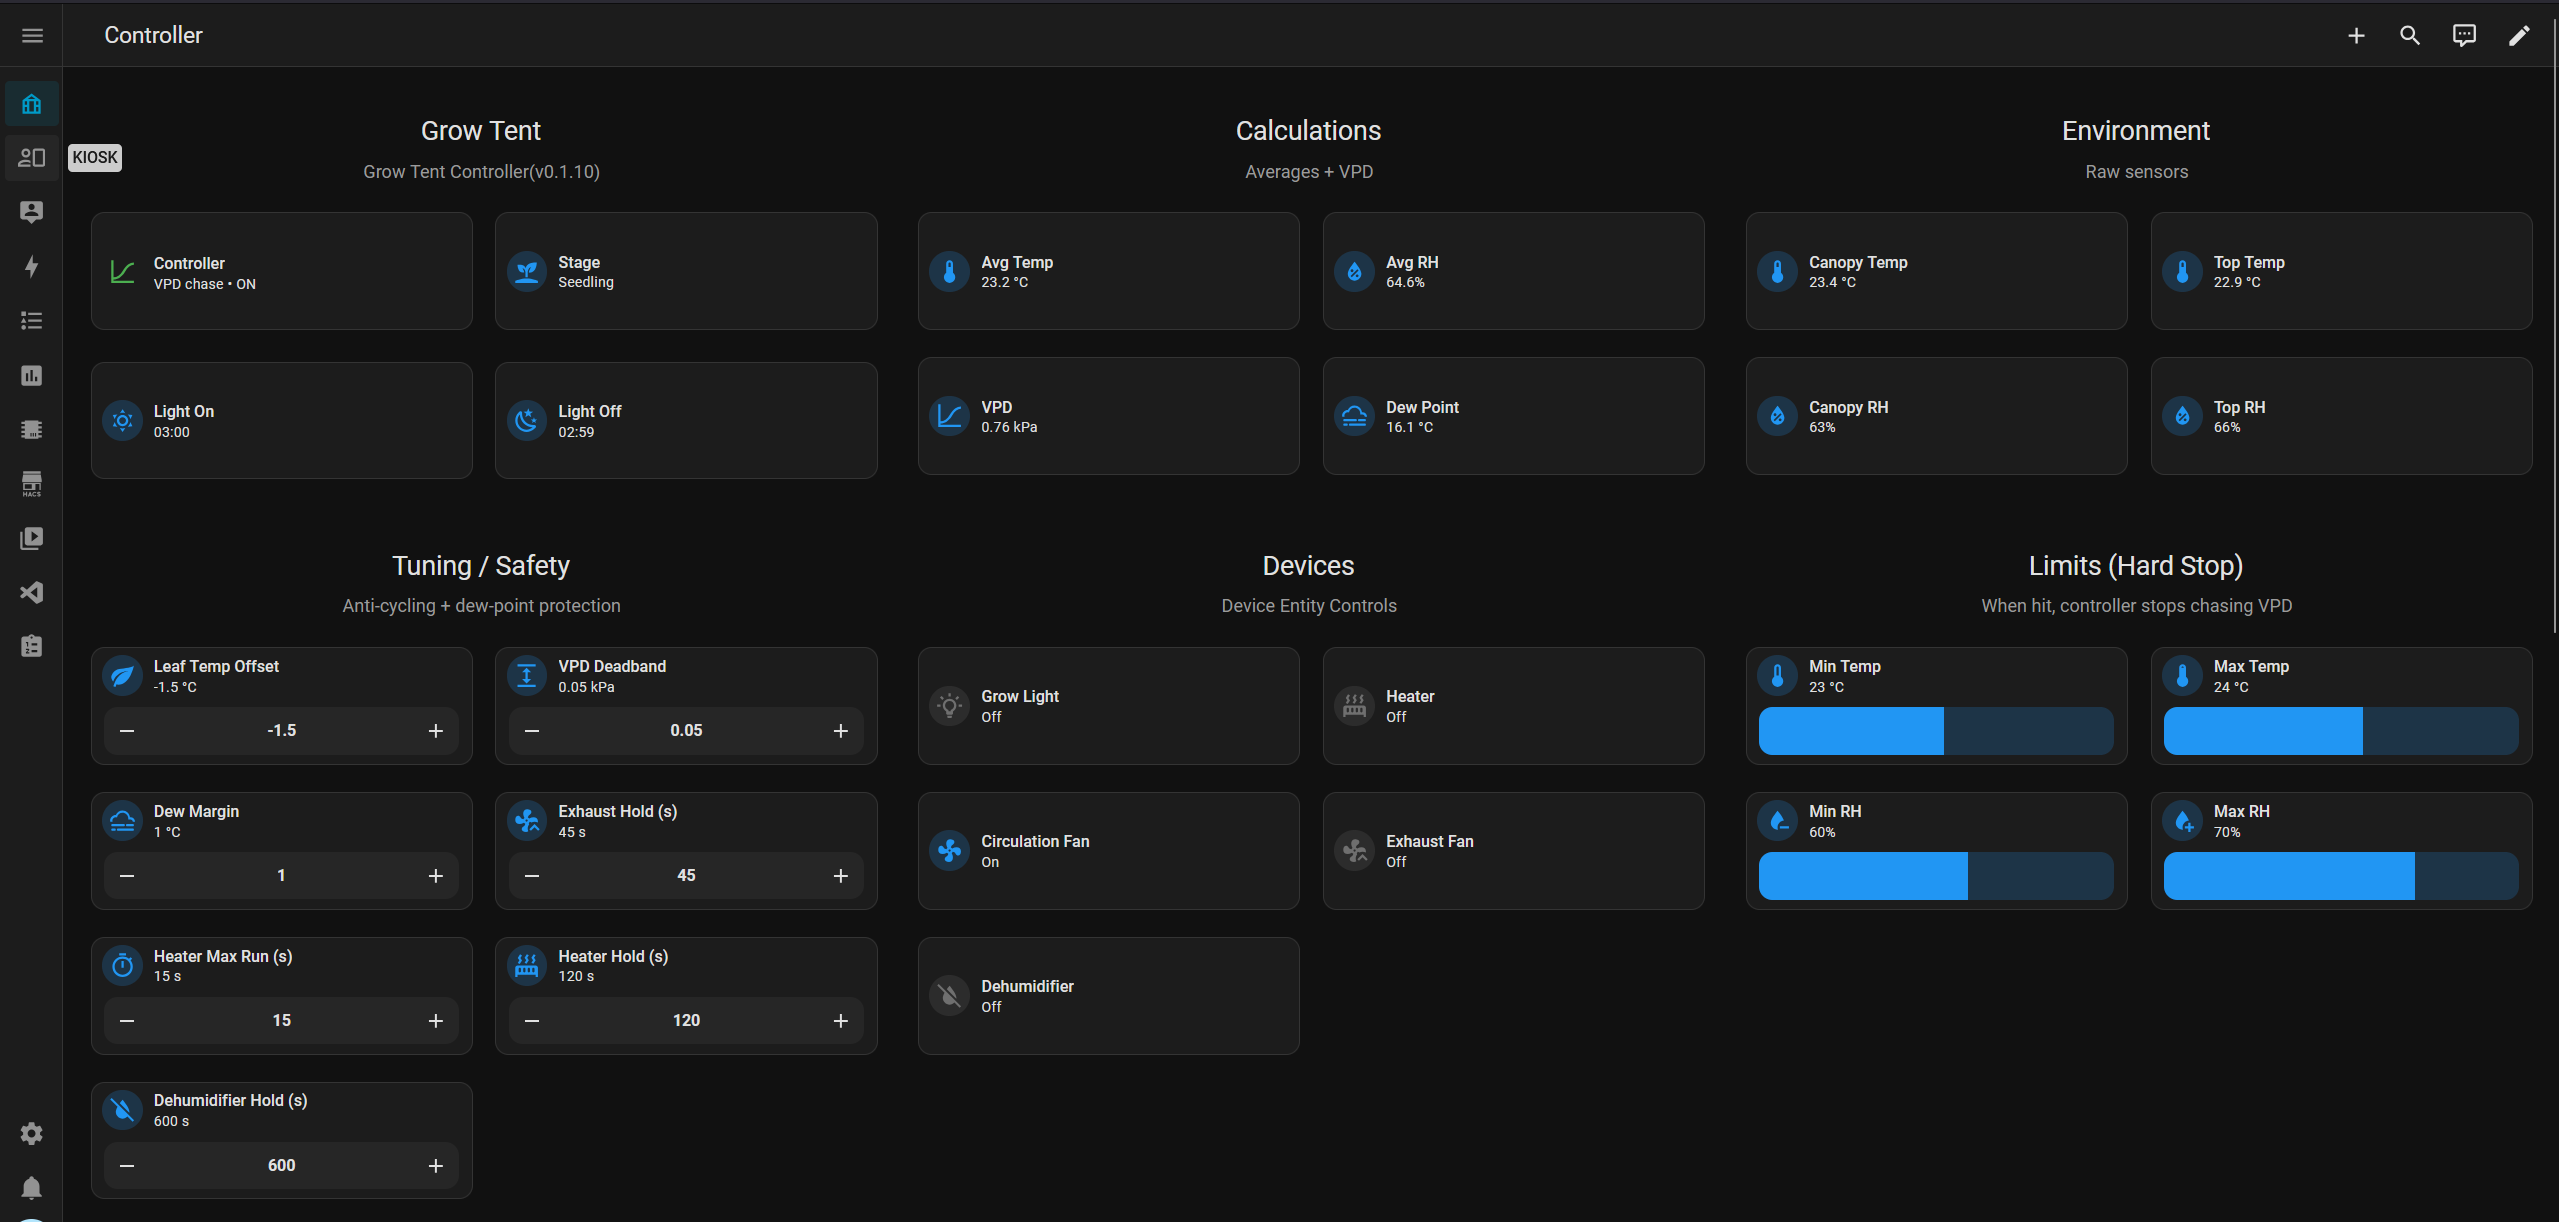
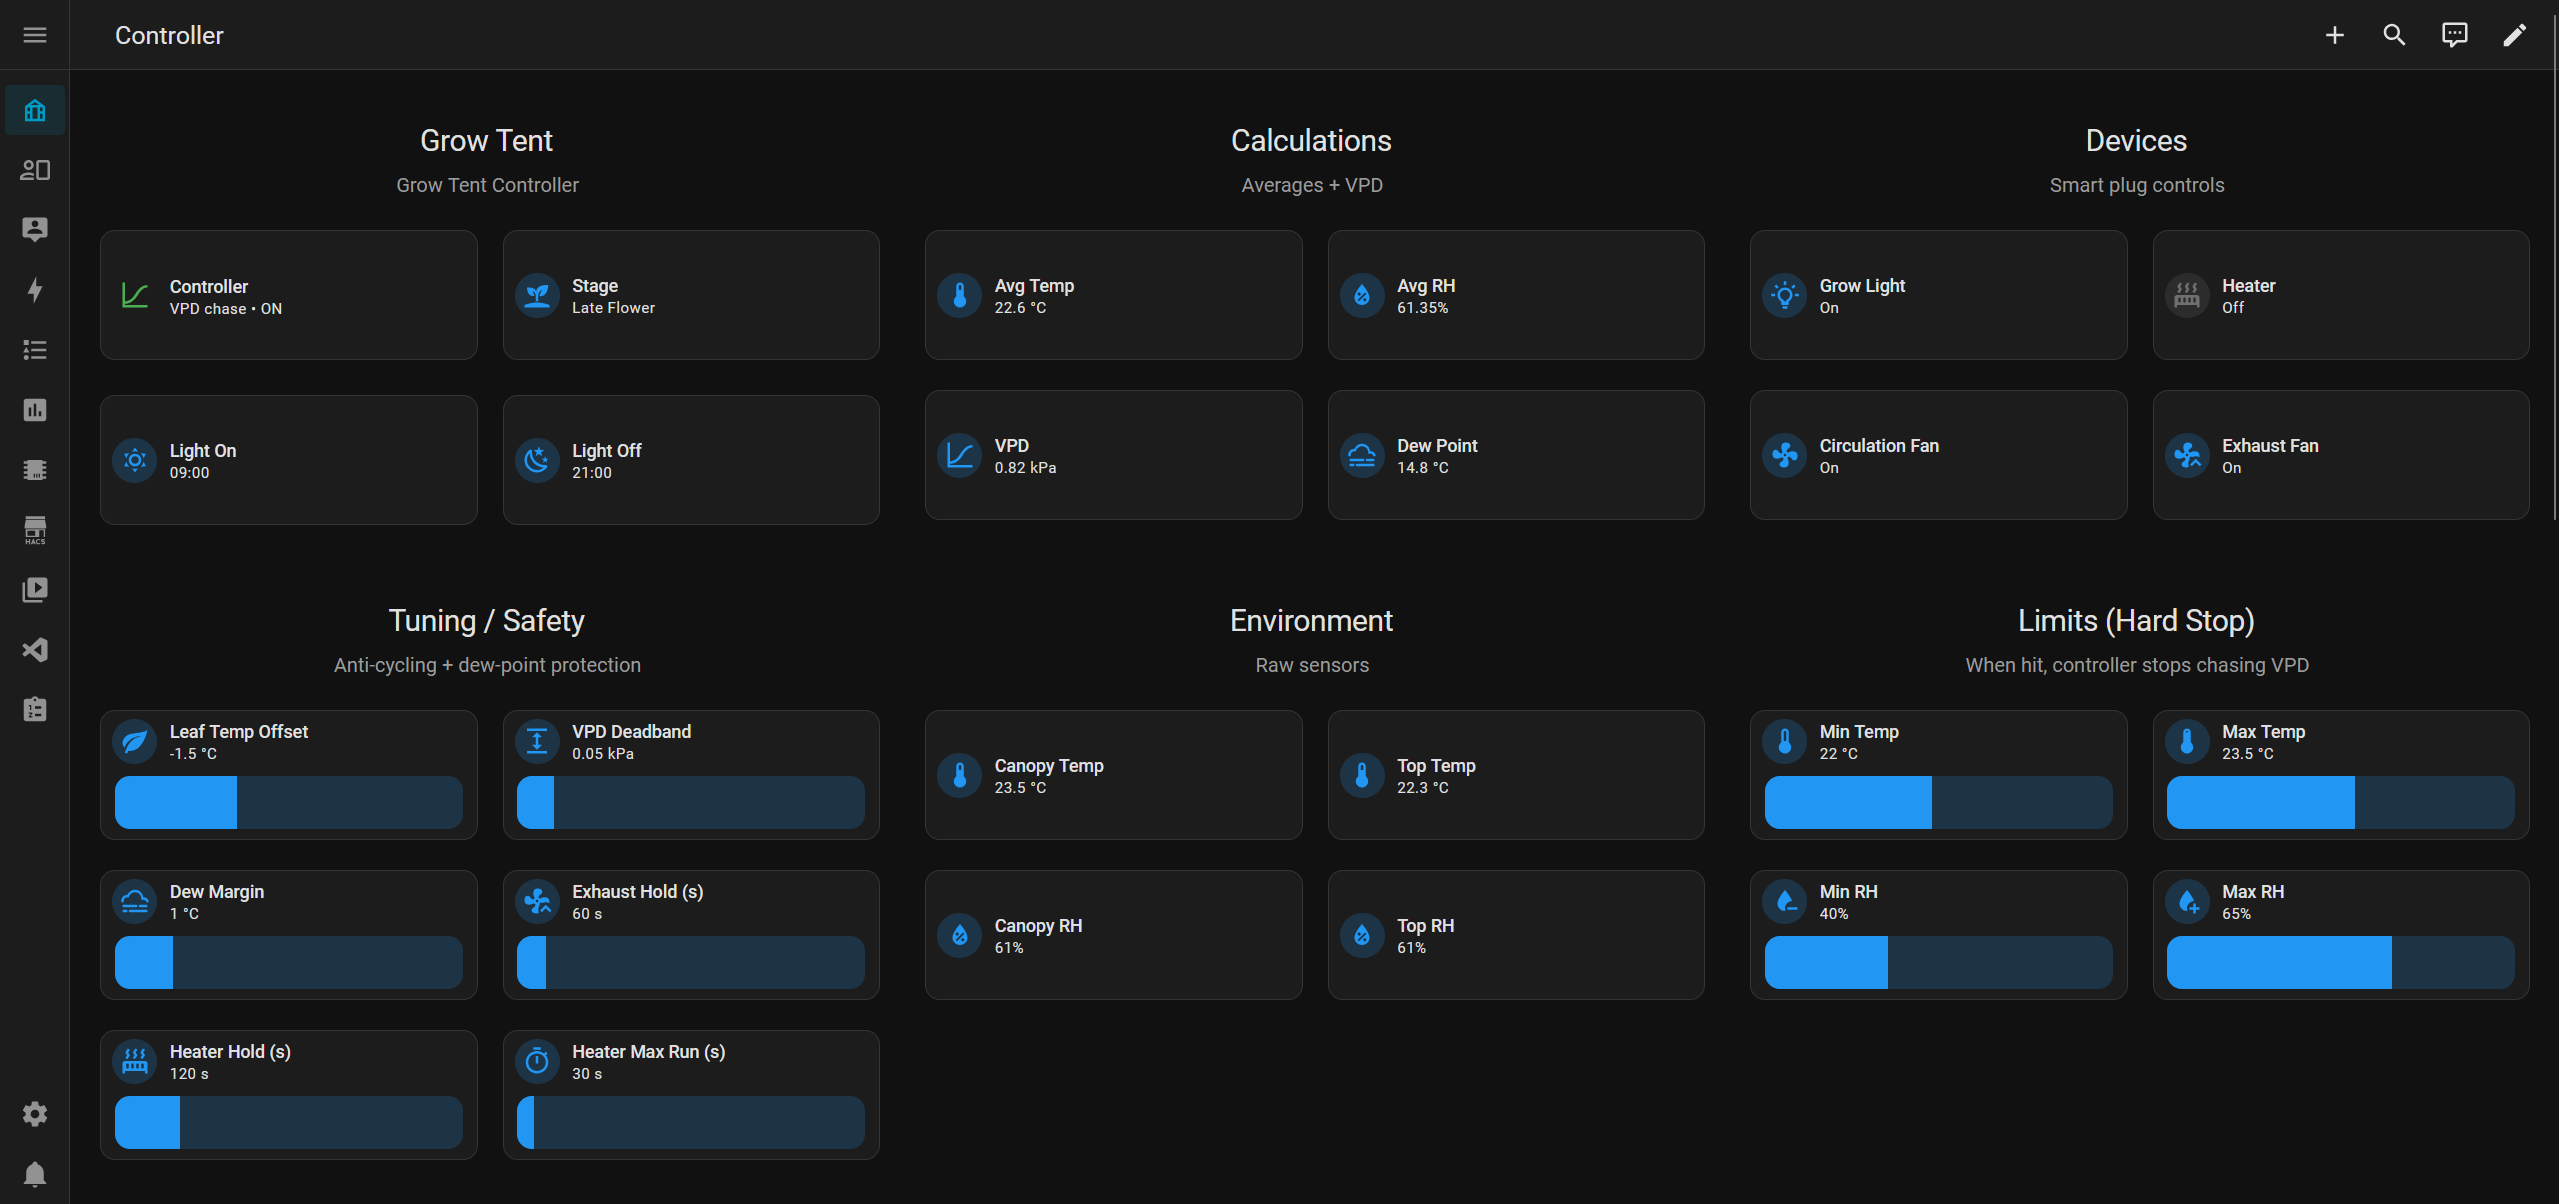
Add per-device Auto/On/Off overrides with restore support

diff --git a/custom_components/small_grow_tent_controller/coordinator.py b/custom_components/small_grow_tent_controller/coordinator.py
@@ -92,6 +92,18 @@ class GrowTentCoordinator(DataUpdateCoordinator[dict[str, Any]]):
             return self.entry.options[key]
         return self.entry.data.get(key)
 
+
+    def _get_mode(self, mode_key: str) -> str:
+        """Return per-device mode from the corresponding select entity: Auto / On / Off."""
+        eid = self._entity_id("select", mode_key)
+        st = self.hass.states.get(eid)
+        if st is None:
+            return "Auto"
+        val = st.state
+        if val in ("Auto", "On", "Off"):
+            return val
+        return "Auto"
+
     def _now(self) -> datetime:
         return dt_util.now()
 
@@ -239,48 +251,149 @@ class GrowTentCoordinator(DataUpdateCoordinator[dict[str, Any]]):
 
         data["debug_is_day"] = is_day
 
+        # Per-device manual override modes (Select: Auto / On / Off)
+        light_mode = self._get_mode("light_mode") if light_eid else "Auto"
+        circ_mode = self._get_mode("circulation_mode") if circ_eid else "Auto"
+        exhaust_mode_sel = self._get_mode("exhaust_mode") if exhaust_eid else "Auto"
+        heater_mode_sel = self._get_mode("heater_mode") if heater_eid else "Auto"
+        humidifier_mode_sel = self._get_mode("humidifier_mode") if humidifier_eid else "Auto"
+        dehumidifier_mode_sel = self._get_mode("dehumidifier_mode") if dehumidifier_eid else "Auto"
+
+
         # --- Light decision reasoning ---
         cur_light_state = self._switch_is_on(light_eid)
-        if light_eid is None:
-            data["debug_light_reason"] = "light_entity_not_configured"
-        elif cur_light_state is None:
-            data["debug_light_reason"] = "light_state_unknown"
-        elif drying:
-            data["debug_light_reason"] = "drying -> force_off"
-        elif is_day and not cur_light_state:
-            data["debug_light_reason"] = "schedule_day_window -> turn_on"
-        elif (not is_day) and cur_light_state:
-            data["debug_light_reason"] = "schedule_night_window -> turn_off"
-        else:
-            data["debug_light_reason"] = "schedule_ok -> no_change"
 
-        # FAILSAFE: light policy
-        if light_eid and cur_light_state is not None:
-            if drying:
-                # Always force OFF, no matter what the schedule is.
-                if cur_light_state and self._can_toggle(self.control.last_light_change, 10):
-                    await self._async_switch(light_eid, False)
-                    self.control.last_light_change = now
+        if light_mode != "Auto":
+            desired = light_mode == "On"
+            data["debug_light_reason"] = f"override:{light_mode.lower()}"
+            if light_eid and cur_light_state is not None and cur_light_state != desired:
+                await self._async_switch(light_eid, desired)
+                self.control.last_light_change = now
+            # Skip automatic light logic when overridden
+            light_eid = None
+        else:
+            if light_eid is None:
+                data["debug_light_reason"] = "light_entity_not_configured"
+            elif cur_light_state is None:
+                data["debug_light_reason"] = "light_state_unknown"
+            elif drying:
+                data["debug_light_reason"] = "drying -> force_off"
+            elif is_day and not cur_light_state:
+                data["debug_light_reason"] = "schedule_day_window -> turn_on"
+            elif (not is_day) and cur_light_state:
+                data["debug_light_reason"] = "schedule_night_window -> turn_off"
             else:
-                # Normal behavior: light matches schedule.
-                if (not is_day) and cur_light_state:
-                    if self._can_toggle(self.control.last_light_change, 10):
+                data["debug_light_reason"] = "schedule_ok -> no_change"
+
+            # FAILSAFE: light policy
+            if light_eid and cur_light_state is not None:
+                if drying:
+                    # Always force OFF, no matter what the schedule is.
+                    if cur_light_state and self._can_toggle(self.control.last_light_change, 10):
                         await self._async_switch(light_eid, False)
                         self.control.last_light_change = now
-                elif is_day and (not cur_light_state):
-                    if self._can_toggle(self.control.last_light_change, 10):
-                        await self._async_switch(light_eid, True)
-                        self.control.last_light_change = now
+                else:
+                    # Normal behavior: light matches schedule.
+                    if (not is_day) and cur_light_state:
+                        if self._can_toggle(self.control.last_light_change, 10):
+                            await self._async_switch(light_eid, False)
+                            self.control.last_light_change = now
+                    elif is_day and (not cur_light_state):
+                        if self._can_toggle(self.control.last_light_change, 10):
+                            await self._async_switch(light_eid, True)
+                            self.control.last_light_change = now
 
-        # Circulation fan always on when controller enabled
-        if enabled and circ_eid:
+        # Circulation fan behavior (default: always ON when controller enabled)
+        if circ_mode != "Auto" and circ_eid:
+            desired = circ_mode == "On"
+            data["debug_circulation_reason"] = f"override:{circ_mode.lower()}"
             cur_circ = self._switch_is_on(circ_eid)
-            if cur_circ is not None and (not cur_circ):
-                await self._async_switch(circ_eid, True)
+            if cur_circ is not None and cur_circ != desired:
+                await self._async_switch(circ_eid, desired)
+            # Skip auto control when overridden
+            circ_eid = None
+        else:
+            if enabled and circ_eid:
+                cur_circ = self._switch_is_on(circ_eid)
+                if cur_circ is not None and (not cur_circ):
+                    await self._async_switch(circ_eid, True)
 
         if not enabled:
             data["control_mode"] = "disabled"
+
+            # Even when the controller is disabled, honor per-device forced modes.
+            if heater_mode_sel != "Auto" and heater_eid:
+                desired = heater_mode_sel == "On"
+                cur = self._switch_is_on(heater_eid)
+                if cur is not None and cur != desired:
+                    await self._async_switch(heater_eid, desired)
+                    self.control.last_heater_change = now
+
+            if exhaust_mode_sel != "Auto" and exhaust_eid:
+                desired = exhaust_mode_sel == "On"
+                cur = self._switch_is_on(exhaust_eid)
+                if cur is not None and cur != desired:
+                    await self._async_switch(exhaust_eid, desired)
+                    self.control.last_exhaust_change = now
+
+            if humidifier_mode_sel != "Auto" and humidifier_eid:
+                desired = humidifier_mode_sel == "On"
+                cur = self._switch_is_on(humidifier_eid)
+                if cur is not None and cur != desired:
+                    await self._async_switch(humidifier_eid, desired)
+                    self.control.last_humidifier_change = now
+
+            if dehumidifier_mode_sel != "Auto" and dehumidifier_eid:
+                desired = dehumidifier_mode_sel == "On"
+                cur = self._switch_is_on(dehumidifier_eid)
+                if cur is not None and cur != desired:
+                    await self._async_switch(dehumidifier_eid, desired)
+                    self.control.last_dehumidifier_change = now
+
             return data
+
+        # Current device states (read even if sensors are missing; needed for overrides)
+        heater_on = self._switch_is_on(heater_eid) is True
+        exhaust_on = self._switch_is_on(exhaust_eid) is True
+        humidifier_on = self._switch_is_on(humidifier_eid) is True
+        dehumidifier_on = self._switch_is_on(dehumidifier_eid) is True
+
+        # Apply per-device forced modes (On/Off). Forced modes bypass controller logic.
+        if heater_mode_sel != "Auto" and heater_eid:
+            desired = heater_mode_sel == "On"
+            cur = self._switch_is_on(heater_eid)
+            if cur is not None and cur != desired:
+                await self._async_switch(heater_eid, desired)
+                self.control.last_heater_change = now
+            heater_on = desired
+            heater_eid = None  # skip auto control
+
+        if exhaust_mode_sel != "Auto" and exhaust_eid:
+            desired = exhaust_mode_sel == "On"
+            cur = self._switch_is_on(exhaust_eid)
+            if cur is not None and cur != desired:
+                await self._async_switch(exhaust_eid, desired)
+                self.control.last_exhaust_change = now
+            exhaust_on = desired
+            exhaust_eid = None  # skip auto control
+
+        if humidifier_mode_sel != "Auto" and humidifier_eid:
+            desired = humidifier_mode_sel == "On"
+            cur = self._switch_is_on(humidifier_eid)
+            if cur is not None and cur != desired:
+                await self._async_switch(humidifier_eid, desired)
+                self.control.last_humidifier_change = now
+            humidifier_on = desired
+            humidifier_eid = None  # skip auto control
+
+        if dehumidifier_mode_sel != "Auto" and dehumidifier_eid:
+            desired = dehumidifier_mode_sel == "On"
+            cur = self._switch_is_on(dehumidifier_eid)
+            if cur is not None and cur != desired:
+                await self._async_switch(dehumidifier_eid, desired)
+                self.control.last_dehumidifier_change = now
+            dehumidifier_on = desired
+            dehumidifier_eid = None  # skip auto control
 
         avg_temp = data.get("avg_temp_c")
         avg_rh = data.get("avg_rh")
@@ -290,12 +403,6 @@ class GrowTentCoordinator(DataUpdateCoordinator[dict[str, Any]]):
         if avg_temp is None or avg_rh is None or dew is None or vpd is None:
             data["control_mode"] = "waiting_for_sensors"
             return data
-
-        # Current device states
-        heater_on = self._switch_is_on(heater_eid) is True
-        exhaust_on = self._switch_is_on(exhaust_eid) is True
-        humidifier_on = self._switch_is_on(humidifier_eid) is True
-        dehumidifier_on = self._switch_is_on(dehumidifier_eid) is True
 
         # ----------------------------
         # HEATER SAFETY: max continuous run time

diff --git a/custom_components/small_grow_tent_controller/select.py b/custom_components/small_grow_tent_controller/select.py
@@ -1,32 +1,76 @@
 from __future__ import annotations
 
+from dataclasses import dataclass
+
 from homeassistant.components.select import SelectEntity
 from homeassistant.config_entries import ConfigEntry
 from homeassistant.core import HomeAssistant
 from homeassistant.helpers.entity_platform import AddEntitiesCallback
-from homeassistant.helpers.storage import Store
+from homeassistant.helpers.restore_state import RestoreEntity
 
-from .const import DOMAIN, DEFAULT_STAGE, STAGE_TARGET_VPD_KPA
+from .const import (
+    DEFAULT_STAGE,
+    DOMAIN,
+    STAGE_TARGET_VPD_KPA,
+    CONF_USE_LIGHT,
+    CONF_USE_CIRCULATION,
+    CONF_USE_EXHAUST,
+    CONF_USE_HEATER,
+    CONF_USE_HUMIDIFIER,
+    CONF_USE_DEHUMIDIFIER,
+)
 
-async def async_setup_entry(hass: HomeAssistant, entry: ConfigEntry, async_add_entities: AddEntitiesCallback):
-    async_add_entities([StageSelect(hass, entry)])
+MODE_OPTIONS = ["Auto", "On", "Off"]
 
-class StageSelect(SelectEntity):
+
+def _opt(entry: ConfigEntry, key: str, default):
+    if key in entry.options:
+        return entry.options[key]
+    return entry.data.get(key, default)
+
+
+@dataclass(frozen=True)
+class _ModeDef:
+    key: str
+    name: str
+    enable_conf: str
+
+
+MODE_DEFS: list[_ModeDef] = [
+    _ModeDef("light_mode", "Light Mode", CONF_USE_LIGHT),
+    _ModeDef("circulation_mode", "Circulation Mode", CONF_USE_CIRCULATION),
+    _ModeDef("exhaust_mode", "Exhaust Mode", CONF_USE_EXHAUST),
+    _ModeDef("heater_mode", "Heater Mode", CONF_USE_HEATER),
+    _ModeDef("humidifier_mode", "Humidifier Mode", CONF_USE_HUMIDIFIER),
+    _ModeDef("dehumidifier_mode", "Dehumidifier Mode", CONF_USE_DEHUMIDIFIER),
+]
+
+
+async def async_setup_entry(
+    hass: HomeAssistant, entry: ConfigEntry, async_add_entities: AddEntitiesCallback
+):
+    entities: list[SelectEntity] = [StageSelect(entry)]
+    # Only create mode selectors for devices the user enabled in config/options.
+    for d in MODE_DEFS:
+        if bool(_opt(entry, d.enable_conf, True)):
+            entities.append(DeviceModeSelect(entry, d.key, d.name))
+    async_add_entities(entities)
+
+
+class StageSelect(SelectEntity, RestoreEntity):
     _attr_has_entity_name = True
 
-    def __init__(self, hass: HomeAssistant, entry: ConfigEntry):
-        self.hass = hass
+    def __init__(self, entry: ConfigEntry):
         self.entry = entry
         self._attr_unique_id = f"{entry.entry_id}_stage"
         self._attr_name = "Stage"
         self._attr_options = list(STAGE_TARGET_VPD_KPA.keys())
         self._current = DEFAULT_STAGE
-        self.store = Store(hass, 1, f"{DOMAIN}_{entry.entry_id}_stage")
 
     async def async_added_to_hass(self):
-        saved = await self.store.async_load()
-        if isinstance(saved, dict) and saved.get("stage") in self._attr_options:
-            self._current = saved["stage"]
+        last = await self.async_get_last_state()
+        if last and last.state in self._attr_options:
+            self._current = last.state
 
     @property
     def current_option(self):
@@ -36,5 +80,33 @@ class StageSelect(SelectEntity):
         if option not in self._attr_options:
             return
         self._current = option
-        await self.store.async_save({"stage": self._current})
+        self.async_write_ha_state()
+
+
+class DeviceModeSelect(SelectEntity, RestoreEntity):
+    """Per-device manual override: Auto / On / Off."""
+
+    _attr_has_entity_name = True
+    _attr_options = MODE_OPTIONS
+
+    def __init__(self, entry: ConfigEntry, key: str, name: str):
+        self.entry = entry
+        self._key = key
+        self._attr_unique_id = f"{entry.entry_id}_{key}"
+        self._attr_name = name
+        self._current = "Auto"
+
+    async def async_added_to_hass(self):
+        last = await self.async_get_last_state()
+        if last and last.state in MODE_OPTIONS:
+            self._current = last.state
+
+    @property
+    def current_option(self):
+        return self._current
+
+    async def async_select_option(self, option: str):
+        if option not in MODE_OPTIONS:
+            return
+        self._current = option
         self.async_write_ha_state()

diff --git a/CHANGELOG.md b/CHANGELOG.md
@@ -1,5 +1,9 @@
 # Changelog
 
+## 0.1.11
+- Add per-device override mode selectors (Auto / On / Off) for light, circulation, exhaust, heater, humidifier, and dehumidifier.
+- Forced modes override controller logic and restore after Home Assistant restarts.
+
 ## 0.1.10
 - Remove forced always-on exhaust behavior in Mid/Late Flower stages; exhaust is now controlled normally across all stages.
 
